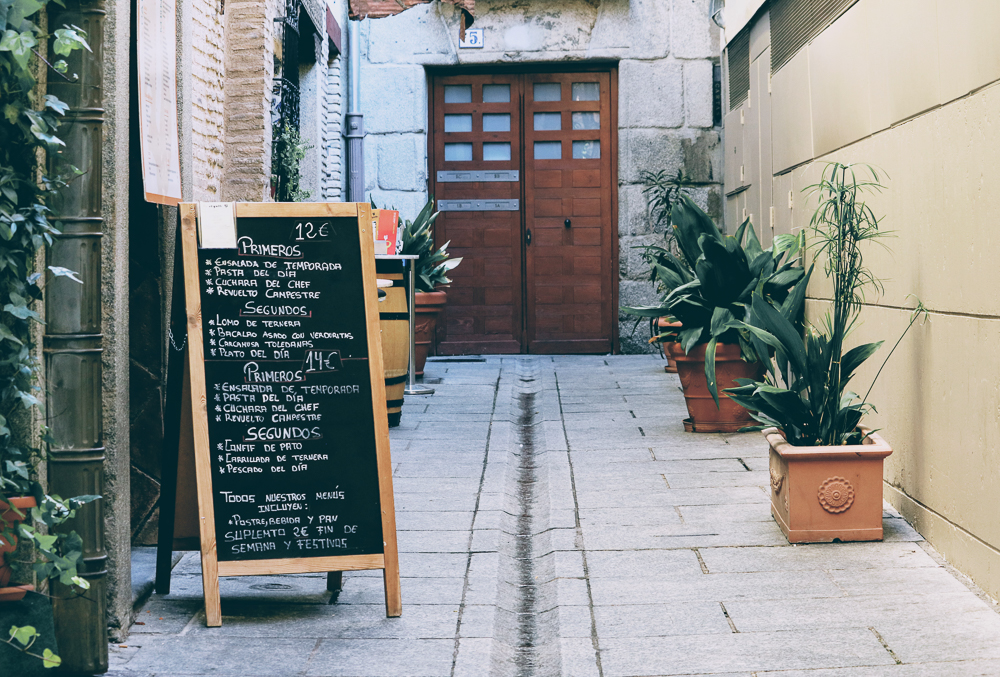
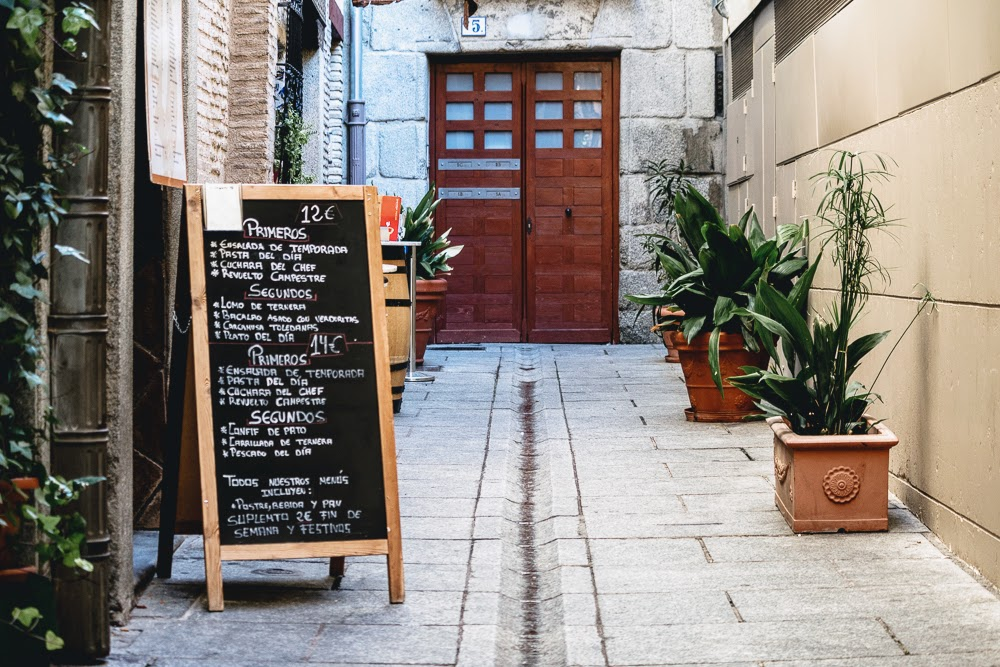
replaced a few more images with proper aspect ration. Minor styling changes.

diff --git a/index.html b/index.html
@@ -49,7 +49,7 @@
     <div class="row">
         <div class="col s12 m6 l4">
             <div class="card large hoverable">
-                <div class="card-image"> <img src="img/albumCovers/album-1.jpg"> <span class="card-title">Paris</span> </div>
+                <div class="card-image"><a href="albums/paris.html"> <img src="img/albumCovers/album-1.jpg"></a> <span class="card-title">Paris</span> </div>
                 <div class="card-content">
                     <p>"If you are lucky enough to have lived in Paris as a young man, then wherever you go for the rest of your life it stays with you, for Paris is a moveable feast." - Ernest Hemingway</p>
                 </div>
@@ -58,7 +58,7 @@
         </div>
         <div class="col s12 m6 l4">
             <div class="card large hoverable">
-                <div class="card-image"> <img src="img/albumCovers/album-2.jpg"> <span class="card-title">Madrid</span> </div>
+                <div class="card-image"> <a href="albums/madrid.html"><img src="img/albumCovers/album-2.jpg"></a> <span class="card-title">Madrid</span> </div>
                 <div class="card-content">
                     <p>How's a fairytale town not somebody's fucking thing? How can all those canals and bridges and cobbled streets and those churches, all that beautiful fucking fairytale stuff, how can that not be somebody's fucking thing, eh? - Movie, "In Bruges"</p>
                 </div>
@@ -67,7 +67,7 @@
         </div>
         <div class="col s12 m6 l4">
             <div class="card large hoverable">
-                <div class="card-image"> <img src="img/albumCovers/album-3.jpg"> <span class="card-title">Cologne</span> </div>
+                <div class="card-image"> <a href="albums/cologne.html"><img src="img/albumCovers/album-3.jpg"></a> <span class="card-title">Cologne</span> </div>
                 <div class="card-content">
                     <p>I couldn't find any good quotes about Cologne so just jump right in.</p>
                 </div>
@@ -77,7 +77,7 @@
     <!--      Second Row of Albums-->
         <div class="col s12 m6 l4">
             <div class="card large hoverable">
-                <div class="card-image"> <img src="img/albumCovers/album-4.jpg"> <span class="card-title">Rome</span> </div>
+                <div class="card-image"> <a href="albums/rome.html"><img src="img/albumCovers/album-4.jpg"></a> <span class="card-title">Rome</span> </div>
                 <div class="card-content">
                     <p>&quot;Rome was a poem pressed into service as a city.&quot; - Anotole Broyard</p>
                 </div>
@@ -86,7 +86,7 @@
         </div>
         <div class="col s12 m6 l4">
             <div class="card large hoverable">
-                <div class="card-image"> <img src="img/albumCovers/album-5.jpg"> <span class="card-title">Victoria</span> </div>
+                <div class="card-image"> <a href="albums/victoria.html"><img src="img/albumCovers/album-5.jpg"></a> <span class="card-title">Victoria</span> </div>
                 <div class="card-content">
                     <p>My hometown and one of my favourite places in the world.</p>
                 </div>
@@ -95,7 +95,7 @@
         </div>
         <div class="col s12 m6 l4">
             <div class="card large hoverable">
-                <div class="card-image"> <img src="img/albumCovers/album-6.jpg"> <span class="card-title">Toledo</span> </div>
+                <div class="card-image"> <a href="albums/toledo.html"><img src="img/albumCovers/album-6.jpg"></a> <span class="card-title">Toledo</span> </div>
                 <div class="card-content">
                     <p>A beautiful little town atop a hill an hour outside of Madrid.</p>
                 </div>

diff --git a/albums/victoria.html b/albums/victoria.html
@@ -7,9 +7,7 @@
     <!--Import materialize.css-->
     <link type="text/css" rel="stylesheet" href="../css/materialize.css" media="screen,projection" />
     <!-- Custom Fonts -->
-    <link href="https://fonts.googleapis.com/css?family=Poiret+One" rel="stylesheet">
-    <link href="https://fonts.googleapis.com/css?family=Droid+Serif:400,400i" rel="stylesheet">
-    <link href="https://fonts.googleapis.com/css?family=Permanent+Marker" rel="stylesheet">
+    <link href="https://fonts.googleapis.com/css?family=Dancing+Script|Permanent+Marker|Poiret+One" rel="stylesheet">
     <!--    Custom CSS-->
     <link href="../css/lightbox.css" rel="stylesheet">
     <link href="../css/style.css" rel="stylesheet">
@@ -23,10 +21,10 @@
    <div class="flex-container">
     <div class="navbar">
             <nav>
-                <div id="header" class="nav-wrapper albums-nav"> <a href="../index.html" class="brand-logo waves-effect waves-orange">Photo's by Benjamin</a>
+                <div id="header" class="nav-wrapper albums-nav"> <a href="../index.html" class="brand-logo waves-effect waves-yellow nav-items-color">Photo's by Benjamin</a>
                     <ul class="right hide-on-med-and-down">
-                        <li><a href="../albums.html" class="waves-effect waves-orange">Albums</a></li>
-                        <li><a href="https://www.instagram.com/benjaminmason/" class="waves-effect waves-orange">Instagram</a></li>
+                        <li><a href="../albums.html" class="waves-effect waves-yellow">Albums</a></li>
+                        <li><a href="https://www.instagram.com/benjaminmason/" class="waves-effect waves-yellow nav-items-color">Instagram</a></li>
                     </ul>
                 </div>
             </nav>

diff --git a/albums.html b/albums.html
@@ -7,9 +7,7 @@
     <!--Import materialize.css-->
     <link type="text/css" rel="stylesheet" href="css/materialize.css" media="screen,projection" />
     <!-- Custom Fonts -->
-    <link href="https://fonts.googleapis.com/css?family=Poiret+One" rel="stylesheet">
-    <link href="https://fonts.googleapis.com/css?family=Droid+Serif:400,400i" rel="stylesheet">
-    <link href="https://fonts.googleapis.com/css?family=Permanent+Marker" rel="stylesheet">
+    <link href="https://fonts.googleapis.com/css?family=Dancing+Script|Permanent+Marker|Poiret+One" rel="stylesheet">
     <!--    Custom CSS-->
     <link href="css/style.css" rel="stylesheet">
     <link href="css/albums.css" rel="stylesheet">
@@ -22,7 +20,7 @@
     <div class="flex-container">
         <div class="navbar">
             <nav>
-                <div class="nav-wrapper albums-nav"> <a href="index.html" class="brand-logo waves-effect waves-orange">Photo's by Benjamin</a>
+                <div id="header" class="nav-wrapper albums-nav"> <a href="index.html" class="brand-logo waves-effect waves-orange">Photo's by Benjamin</a>
                     <ul class="right hide-on-med-and-down">
                         <li><a href="albums.html" class="waves-effect waves-orange">Albums</a></li>
                         <li><a href="https://www.instagram.com/benjaminmason/" class="waves-effect waves-orange">Instagram</a></li>

diff --git a/albums/madrid.html b/albums/madrid.html
@@ -7,9 +7,7 @@
     <!--Import materialize.css-->
     <link type="text/css" rel="stylesheet" href="../css/materialize.css" media="screen,projection" />
     <!-- Custom Fonts -->
-    <link href="https://fonts.googleapis.com/css?family=Poiret+One" rel="stylesheet">
-    <link href="https://fonts.googleapis.com/css?family=Droid+Serif:400,400i" rel="stylesheet">
-    <link href="https://fonts.googleapis.com/css?family=Permanent+Marker" rel="stylesheet">
+    <link href="https://fonts.googleapis.com/css?family=Dancing+Script|Permanent+Marker|Poiret+One" rel="stylesheet">
     <!--    Custom CSS-->
     <link href="../css/lightbox.css" rel="stylesheet">
     <link href="../css/style.css" rel="stylesheet">

diff --git a/albums/paris.html b/albums/paris.html
@@ -7,9 +7,7 @@
     <!--Import materialize.css-->
     <link type="text/css" rel="stylesheet" href="../css/materialize.css" media="screen,projection" />
     <!-- Custom Fonts -->
-    <link href="https://fonts.googleapis.com/css?family=Poiret+One" rel="stylesheet">
-    <link href="https://fonts.googleapis.com/css?family=Droid+Serif:400,400i" rel="stylesheet">
-    <link href="https://fonts.googleapis.com/css?family=Permanent+Marker" rel="stylesheet">
+    <link href="https://fonts.googleapis.com/css?family=Dancing+Script|Permanent+Marker|Poiret+One" rel="stylesheet">
     <!--    Custom CSS-->
     <link href="../css/lightbox.css" rel="stylesheet">
     <link href="../css/style.css" rel="stylesheet">

diff --git a/albums/rome.html b/albums/rome.html
@@ -7,9 +7,7 @@
     <!--Import materialize.css-->
     <link type="text/css" rel="stylesheet" href="../css/materialize.css" media="screen,projection" />
     <!-- Custom Fonts -->
-    <link href="https://fonts.googleapis.com/css?family=Poiret+One" rel="stylesheet">
-    <link href="https://fonts.googleapis.com/css?family=Droid+Serif:400,400i" rel="stylesheet">
-    <link href="https://fonts.googleapis.com/css?family=Permanent+Marker" rel="stylesheet">
+    <link href="https://fonts.googleapis.com/css?family=Dancing+Script|Permanent+Marker|Poiret+One" rel="stylesheet">
     <!--    Custom CSS-->
     <link href="../css/lightbox.css" rel="stylesheet">
     <link href="../css/style.css" rel="stylesheet">

diff --git a/albums/toledo.html b/albums/toledo.html
@@ -7,9 +7,7 @@
     <!--Import materialize.css-->
     <link type="text/css" rel="stylesheet" href="../css/materialize.css" media="screen,projection" />
     <!-- Custom Fonts -->
-    <link href="https://fonts.googleapis.com/css?family=Poiret+One" rel="stylesheet">
-    <link href="https://fonts.googleapis.com/css?family=Droid+Serif:400,400i" rel="stylesheet">
-    <link href="https://fonts.googleapis.com/css?family=Permanent+Marker" rel="stylesheet">
+    <link href="https://fonts.googleapis.com/css?family=Dancing+Script|Permanent+Marker|Poiret+One" rel="stylesheet">
     <!--    Custom CSS-->
     <link href="../css/lightbox.css" rel="stylesheet">
     <link href="../css/style.css" rel="stylesheet">

diff --git a/albums/bruges.html b/albums/bruges.html
@@ -7,9 +7,7 @@
     <!--Import materialize.css-->
     <link type="text/css" rel="stylesheet" href="../css/materialize.css" media="screen,projection" />
     <!-- Custom Fonts -->
-    <link href="https://fonts.googleapis.com/css?family=Poiret+One" rel="stylesheet">
-    <link href="https://fonts.googleapis.com/css?family=Droid+Serif:400,400i" rel="stylesheet">
-    <link href="https://fonts.googleapis.com/css?family=Permanent+Marker" rel="stylesheet">
+<link href="https://fonts.googleapis.com/css?family=Dancing+Script|Permanent+Marker|Poiret+One" rel="stylesheet">
     <!--    Custom CSS-->
     <link href="../css/lightbox.css" rel="stylesheet">
     <link href="../css/style.css" rel="stylesheet">

diff --git a/albums/cologne.html b/albums/cologne.html
@@ -7,9 +7,7 @@
     <!--Import materialize.css-->
     <link type="text/css" rel="stylesheet" href="../css/materialize.css" media="screen,projection" />
     <!-- Custom Fonts -->
-    <link href="https://fonts.googleapis.com/css?family=Poiret+One" rel="stylesheet">
-    <link href="https://fonts.googleapis.com/css?family=Droid+Serif:400,400i" rel="stylesheet">
-    <link href="https://fonts.googleapis.com/css?family=Permanent+Marker" rel="stylesheet">
+<link href="https://fonts.googleapis.com/css?family=Dancing+Script|Permanent+Marker|Poiret+One" rel="stylesheet">
     <!--    Custom CSS-->
     <link href="../css/lightbox.css" rel="stylesheet">
     <link href="../css/style.css" rel="stylesheet">

diff --git a/css/style.css b/css/style.css
@@ -4,7 +4,7 @@ font-family: 'Dancing Script', cursive;
 }
 
 .card-action, .card-content {
-        font-family: 'Poiret One';
+    font-family: 'Poiret One';
 }
 h1 {
     font-family: 'Poiret One';
@@ -105,4 +105,7 @@ nav {
 }
 #contact-me {
         font-family: 'Poiret One';
+}
+#header a:hover, #navbar-fade-in a:hover {
+    color: rgb(255, 171, 64);
 }
